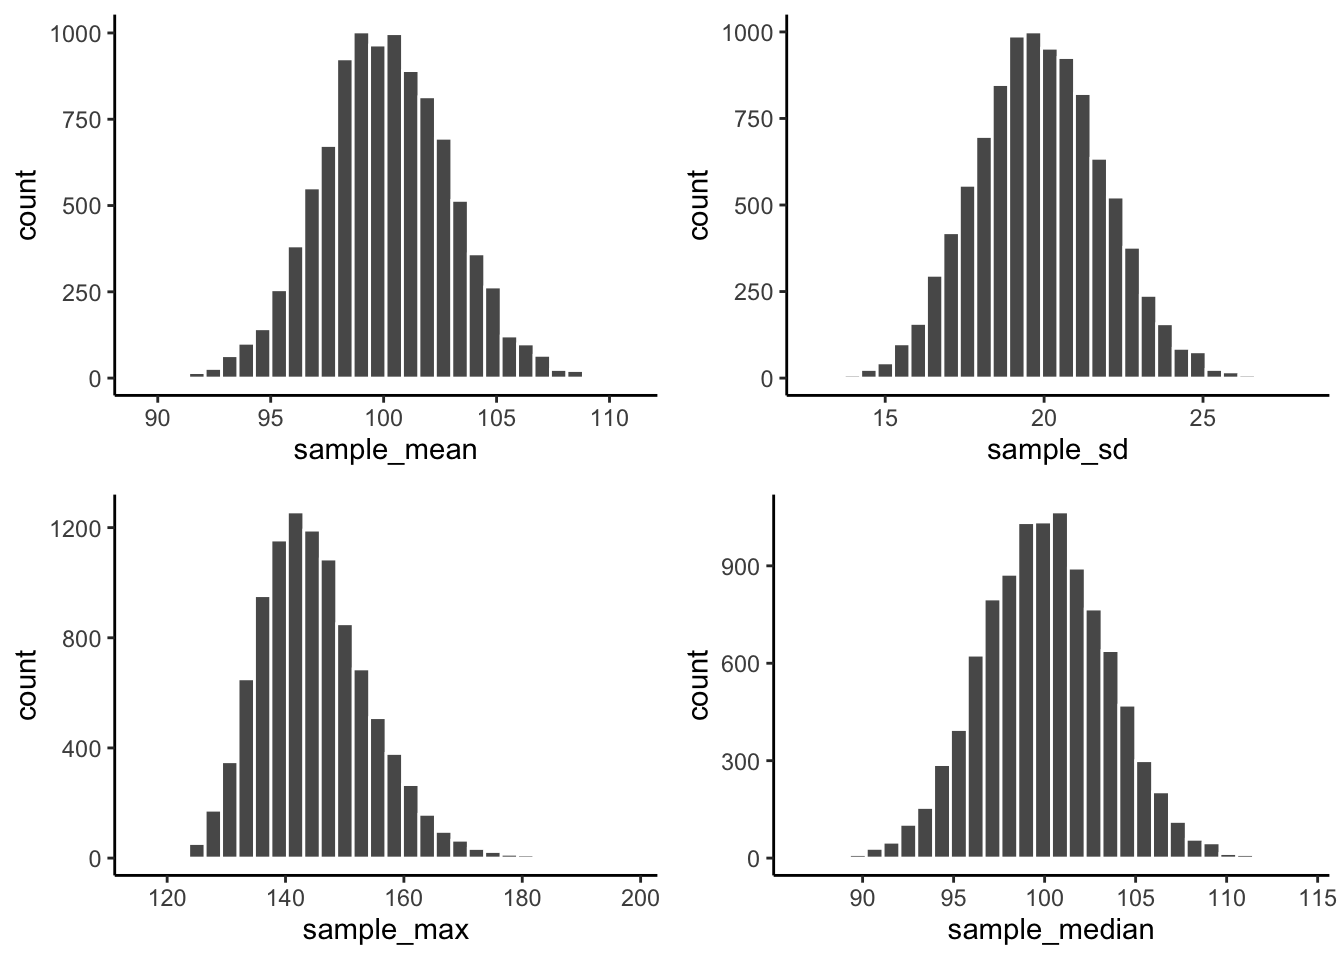
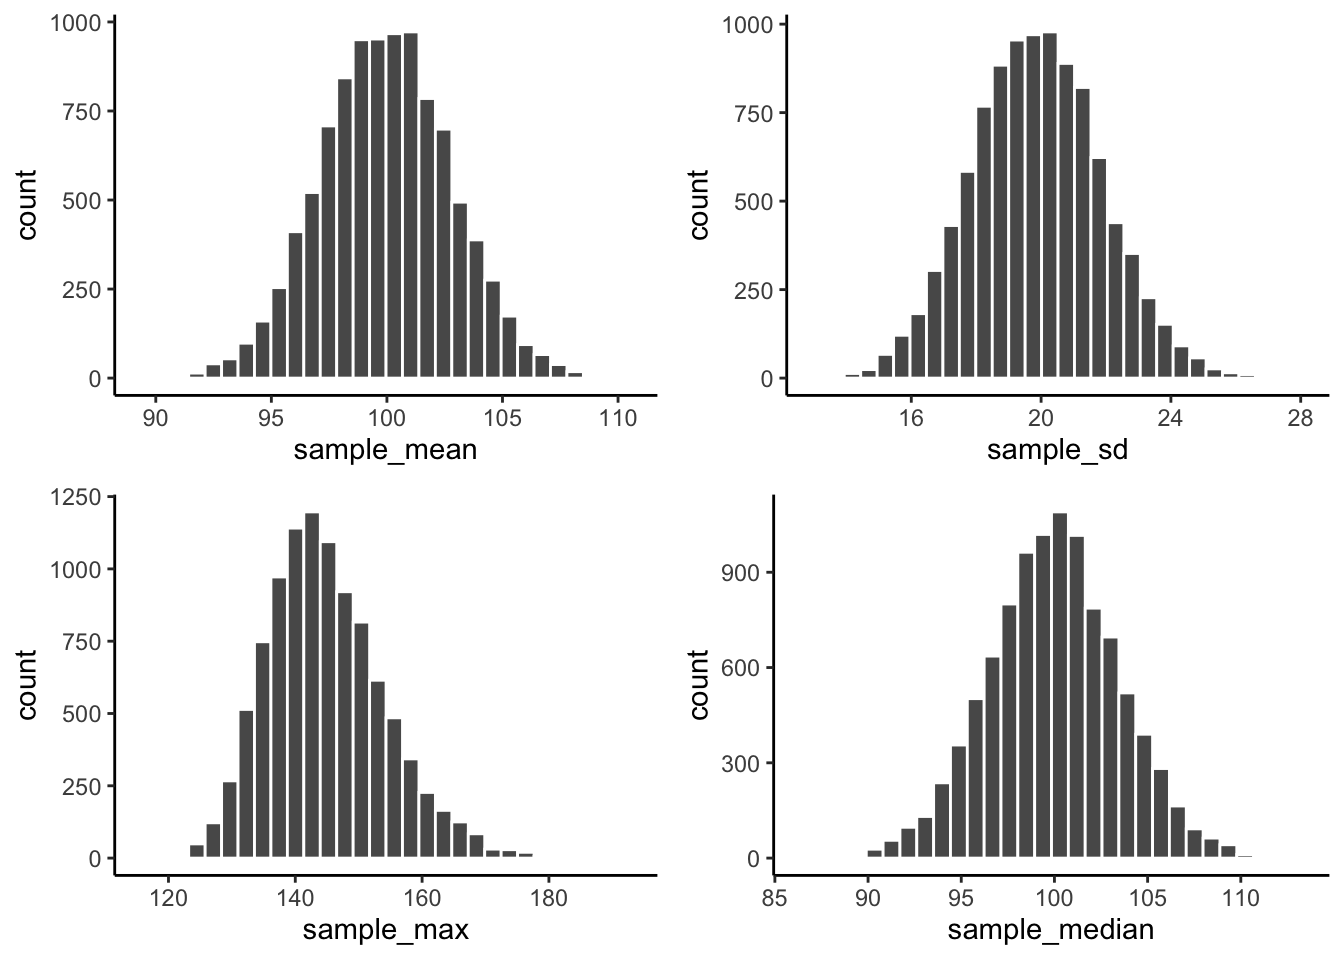
fix figures

diff --git a/docs/probability-sampling-and-estimation.html b/docs/probability-sampling-and-estimation.html
@@ -1066,9 +1066,9 @@ Figure 4.4: Two binomial distributions, involving a scenario in which I’m flip
 <p>The <code>qbinom</code> function rounds upwards: if you ask for a percentile that doesn’t actually exist (like the 75th in this example), R finds the smallest value for which the the percentile rank is <strong>at least</strong> what you asked for. In this case, since the “true” 75th percentile (whatever that would mean) lies somewhere between 3 and 4 skulls, Rrounds up and gives you an answer of 4. This subtlety is tedious, I admit, but thankfully it’s only an issue for discrete distributions like the binomial. The other distributions that I’ll talk about (normal, <span class="math inline">\(t\)</span>, <span class="math inline">\(\chi^2\)</span> and <span class="math inline">\(F\)</span>) are all continuous, and so R can always return an exact quantile whenever you ask for it.</p>
 <p>Finally, we have the random number generator. To use the <code>rbinom</code> function, you specify how many times R should “simulate” the experiment using the <code>n</code> argument, and it will generate random outcomes from the binomial distribution. So, for instance, suppose I were to repeat my die rolling experiment 100 times. I could get R to simulate the results of these experiments by using the following command:</p>
 <div class="sourceCode" id="cb9"><pre class="sourceCode r"><code class="sourceCode r"><span id="cb9-1"><a href="probability-sampling-and-estimation.html#cb9-1" aria-hidden="true" tabindex="-1"></a><span class="fu">rbinom</span>( <span class="at">n =</span> <span class="dv">100</span>, <span class="at">size =</span> <span class="dv">20</span>, <span class="at">prob =</span> <span class="dv">1</span><span class="sc">/</span><span class="dv">6</span> )</span></code></pre></div>
-<pre><code>##   [1] 4 4 0 3 2 7 5 6 4 3 5 2 1 4 3 5 3 3 3 2 2 5 4 2 1 3 6 6 2 3 1 6 6 6 2 8 7
-##  [38] 5 5 3 2 2 2 2 2 4 3 3 4 2 4 2 2 4 5 2 2 7 6 4 7 1 2 4 3 4 2 3 6 4 1 2 2 1
-##  [75] 4 0 3 4 1 3 4 4 1 3 4 3 3 5 4 2 2 3 3 3 4 5 3 4 3 4</code></pre>
+<pre><code>##   [1] 3 3 3 4 1 6 4 3 3 2 3 4 6 2 3 3 2 3 3 5 4 4 2 4 2 3 4 4 3 5 3 3 2 1 4 4 4
+##  [38] 2 2 1 3 4 2 3 3 4 0 5 4 1 3 2 3 3 3 2 2 4 3 2 2 3 3 4 3 3 1 3 2 0 4 4 2 5
+##  [75] 2 5 4 4 1 4 1 3 2 3 3 3 3 4 4 3 4 2 5 4 3 4 4 4 2 5</code></pre>
 <p>As you can see, these numbers are pretty much what you’d expect given the distribution shown in Figure <a href="probability-sampling-and-estimation.html#fig:4binomial1">4.3</a>. Most of the time I roll somewhere between 1 to 5 skulls. There are a lot of subtleties associated with random number generation using a computer, but for the purposes of this book we don’t need to worry too much about them.</p>
 </div>
 </div>
@@ -1227,12 +1227,12 @@ Figure 4.12: The population distribution of IQ scores (panel a) and two samples 
 <span id="cb13-2"><a href="probability-sampling-and-estimation.html#cb13-2" aria-hidden="true" tabindex="-1"></a>IQ <span class="ot">&lt;-</span> <span class="fu">round</span>(IQ) <span class="co"># make round numbers</span></span></code></pre></div>
 <p>Cool, we just generated 10,000 fake IQ scores. Where did they go? Well, they went into the variable IQ on my computer. You can do the same on your computer too by copying the above code. 10,000 numbers is too many numbers to look at. We can look at the first 100 like this:</p>
 <div class="sourceCode" id="cb14"><pre class="sourceCode r"><code class="sourceCode r"><span id="cb14-1"><a href="probability-sampling-and-estimation.html#cb14-1" aria-hidden="true" tabindex="-1"></a><span class="fu">print</span>(IQ[<span class="dv">1</span><span class="sc">:</span><span class="dv">100</span>])</span></code></pre></div>
-<pre><code>##   [1] 125  69 117 133 105 126  81 114 102 109  79 102 103  82  84  74 105  94
-##  [19]  82 115 113 122  99  86 112 101  81 102 118 106  92  93  79 101 109 113
-##  [37]  85 114 110  89  99  58 108  88 127 118  87 112  90 114  77  73  72 104
-##  [55] 110  96  82 104 117 114  79 123  82 117  94  85  89  78 109 101  77  95
-##  [73]  96 102 110 106  79  94  95 113  89  72  93  70 104  97  92  97  89  91
-##  [91]  71  99  95 109  82 111 124  81 113 109</code></pre>
+<pre><code>##   [1] 100  74 117 104  84 118 110  98  95 104 103  86 117  97  82 103  74 117
+##  [19]  86 124 107 101  91  96  85  95  91  89  87 104 102 100 116 112  83  89
+##  [37] 107 110  91 119  71 110  62 113 118 112  89 130  86 125  83  94  81  99
+##  [55] 121 124 113 101 118 101 100 110 104  67  96 105  84 112 115  90  99 116
+##  [73]  86 121 123  91  75 124  87 121  85 105 112  97  95  96  91  98  99  94
+##  [91] 103 118  83  95  98  85  89  90  93 105</code></pre>
 <p>We can compute the mean IQ using the command <strong>mean(IQ)</strong> and the standard deviation using the command <strong>sd(IQ)</strong>, and draw a histogram using <strong>hist()</strong>. The histogram of this much larger sample is shown in Figure <a href="probability-sampling-and-estimation.html#fig:IQdist">4.12</a>c. Even a moment’s inspections makes clear that the larger sample is a much better approximation to the true population distribution than the smaller one. This is reflected in the sample statistics: the mean IQ for the larger sample turns out to be 99.9, and the standard deviation is 15.1. These values are now very close to the true population.</p>
 <p>I feel a bit silly saying this, but the thing I want you to take away from this is that large samples generally give you better information. I feel silly saying it because it’s so bloody obvious that it shouldn’t need to be said. In fact, it’s such an obvious point that when Jacob Bernoulli – one of the founders of probability theory – formalized this idea back in 1713, he was kind of a jerk about it. Here’s how he described the fact that we all share this intuition:</p>
 <blockquote>
@@ -1431,10 +1431,10 @@ Figure 4.22: A normal distribution. Each line represents a standard deviation fr
 <p>Here’s the general formula:</p>
 <p><span class="math inline">\(z = \frac{\text{raw score} - \text{mean}}{\text{standard deviation}}\)</span></p>
 <p>So, for example if we had these 10 scores from a normal distribution with mean = 100, and standard deviation =25</p>
-<pre><code>##  [1]  98.94 101.92 172.60  94.44  81.66 101.90  90.44  60.15 124.93  59.29</code></pre>
+<pre><code>##  [1]  85.77  81.31 108.52 133.07  69.29  76.70 138.36 111.95 115.69  77.99</code></pre>
 <p>The z-scores would be:</p>
-<pre><code>##  [1] -0.0424  0.0768  2.9040 -0.2224 -0.7336  0.0760 -0.3824 -1.5940  0.9972
-## [10] -1.6284</code></pre>
+<pre><code>##  [1] -0.5692 -0.7476  0.3408  1.3228 -1.2284 -0.9320  1.5344  0.4780  0.6276
+## [10] -0.8804</code></pre>
 <p>Once you have the z-scores, you could use them as another way to describe your data. For example, now just by looking at a score you know if it is likely or unlikely to occur, because you know how the area under the normal curve works. z-scores between -1 and 1 happen pretty often, scores greater than 1 or -1 still happen fairly often, but not as often. And, scores bigger than 2 or -2 don’t happen very often. This is a convenient thing to do if you want to look at your numbers and get a general sense of how often they happen.</p>
 <p>Usually you do not know the mean or the standard deviation of the population that you are drawing your sample scores from. So, you could use the mean and standard deviation of your sample as an estimate, and then use those to calculate z-scores.</p>
 <p>Finally, z-scores are also called <strong>standardized scores</strong>, because each raw score is described in terms of it’s standard deviation. This may well be the last time we talk about z-scores in this book. You might wonder why we even bothered telling you about them. First, it’s worth knowing they are a thing. Second, they become important as your statistical prowess becomes more advanced. Third, some statistical concepts, like correlation, can be re-written in terms of z-scores, and this illuminates aspects of those statistics. Finally, they are super useful when you are dealing with a normal distribution that has a known mean and standard deviation.</p>
@@ -1544,7 +1544,7 @@ How happy are you in the afternoons on a scale from 1 to 7?</p>
 <p>It turns out the sample standard deviation is a <strong>biased estimator</strong> of the population standard deviation. We can sort of anticipate this by what we’ve been discussing. When the sample size is 1, the standard deviation is 0, which is obviously to small. When the sample size is 2, the standard deviation becomes a number bigger than 0, but because we only have two sample, we suspect it might still be too small. Turns out this intuition is correct.</p>
 <p>It would be nice to demonstrate this somehow. There are in fact mathematical proofs that confirm this intuition, but unless you have the right mathematical background they don’t help very much. Instead, what I’ll do is use R to simulate the results of some experiments. With that in mind, let’s return to our IQ studies. Suppose the true population mean IQ is 100 and the standard deviation is 15. I can use the <strong>rnorm()</strong> function to generate the the results of an experiment in which I measure <span class="math inline">\(N=2\)</span> IQ scores, and calculate the sample standard deviation. If I do this over and over again, and plot a histogram of these sample standard deviations, what I have is the <strong>sampling distribution of the standard deviation</strong>. I’ve plotted this distribution in Figure <a href="probability-sampling-and-estimation.html#fig:sampdistsd">4.23</a>.</p>
 <div class="figure"><span id="fig:sampdistsd"></span>
-<img src="navarro_img/estimation/sampdistsd.pdf" alt="The sampling distribution of the sample standard deviation for a two IQ scores experiment. The true population standard deviation is 15 (dashed line), but as you can see from the histogram, the vast majority of experiments will produce a much smaller sample standard deviation than this. On average, this experiment would produce a sample standard deviation of only 8.5, well below the true value! In other words, the sample standard deviation is a biased estimate of the population standard deviation."  />
+<img src="navarro_img/estimation/sampdistsd.png" alt="The sampling distribution of the sample standard deviation for a two IQ scores experiment. The true population standard deviation is 15 (dashed line), but as you can see from the histogram, the vast majority of experiments will produce a much smaller sample standard deviation than this. On average, this experiment would produce a sample standard deviation of only 8.5, well below the true value! In other words, the sample standard deviation is a biased estimate of the population standard deviation."  />
 <p class="caption">
 Figure 4.23: The sampling distribution of the sample standard deviation for a two IQ scores experiment. The true population standard deviation is 15 (dashed line), but as you can see from the histogram, the vast majority of experiments will produce a much smaller sample standard deviation than this. On average, this experiment would produce a sample standard deviation of only 8.5, well below the true value! In other words, the sample standard deviation is a biased estimate of the population standard deviation.
 </p>
@@ -1553,14 +1553,14 @@ Figure 4.23: The sampling distribution of the sample standard deviation for a tw
 <p>Now let’s extend the simulation. Instead of restricting ourselves to the situation where we have a sample size of <span class="math inline">\(N=2\)</span>, let’s repeat the exercise for sample sizes from 1 to 10. If we plot the average sample mean and average sample standard deviation as a function of sample size, you get the following results.</p>
 <p>Figure <a href="probability-sampling-and-estimation.html#fig:estimatorbiasA">4.24</a> shows the sample mean as a function of sample size. Notice it’s a flat line. The sample mean doesn’t underestimate or overestimate the population mean. It is an unbiased estimate!</p>
 <div class="figure"><span id="fig:estimatorbiasA"></span>
-<img src="navarro_img/estimation/biasMean-eps-converted-to.pdf" alt="An illustration of the fact that the sample mean is an unbiased estimator of the population mean."  />
+<img src="navarro_img/estimation/biasMean-eps-converted-to.png" alt="An illustration of the fact that the sample mean is an unbiased estimator of the population mean."  />
 <p class="caption">
 Figure 4.24: An illustration of the fact that the sample mean is an unbiased estimator of the population mean.
 </p>
 </div>
 <p>Figure <a href="probability-sampling-and-estimation.html#fig:estimatorbiasB">4.25</a> shows the sample standard deviation as a function of sample size. Notice it is not a flat line. The sample standard deviation systematically underestimates the population standard deviation!</p>
 <div class="figure"><span id="fig:estimatorbiasB"></span>
-<img src="navarro_img/estimation/biasSD-eps-converted-to.pdf" alt="An illustration of the fact that the the sample standard deviation is a biased estimator of the population standard deviation"  />
+<img src="navarro_img/estimation/biasSD-eps-converted-to.png" alt="An illustration of the fact that the the sample standard deviation is a biased estimator of the population standard deviation"  />
 <p class="caption">
 Figure 4.25: An illustration of the fact that the the sample standard deviation is a biased estimator of the population standard deviation
 </p>
